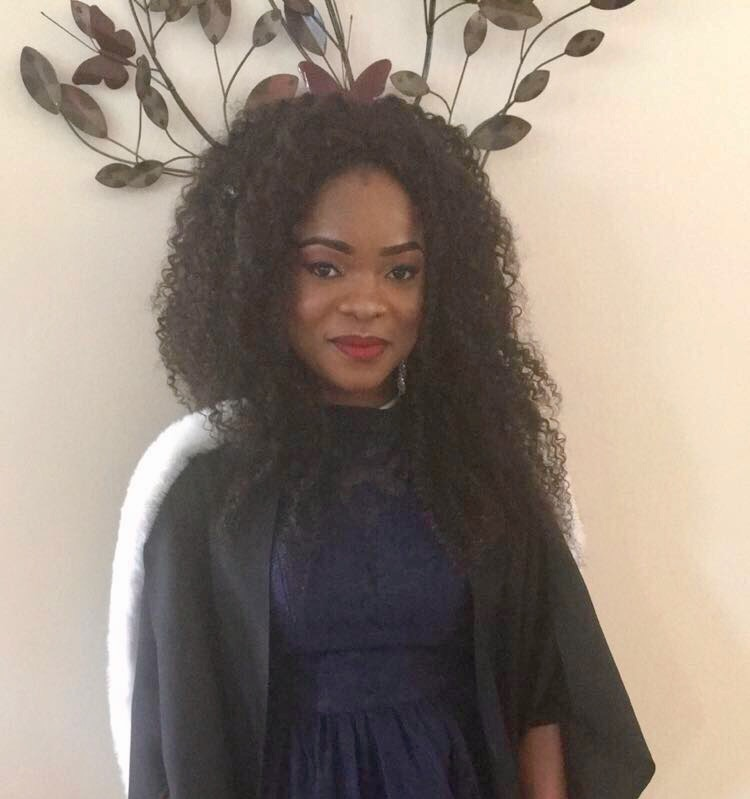
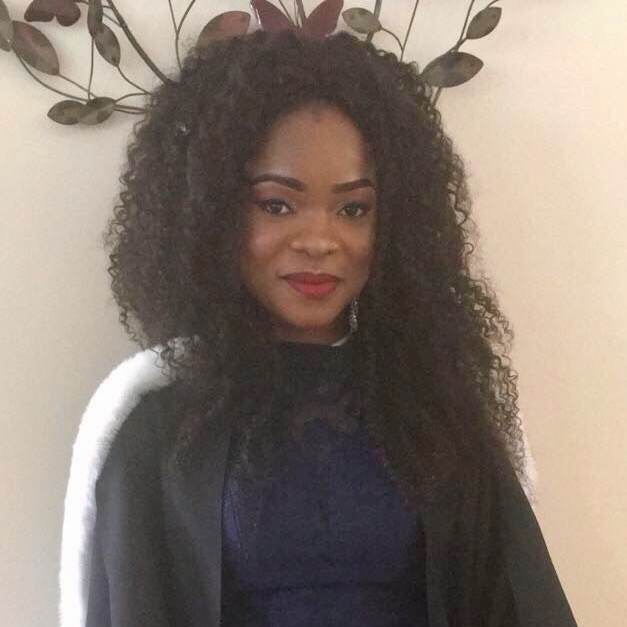
(fix) change pics

diff --git a/docs/team.html b/docs/team.html
@@ -59,7 +59,7 @@
             <div class="col-md-3">
                 <div class="hovereffect">
                     <a href="bios/ashley.html">
-                        <img class="img-responsive" src="images/ashley.jpg" alt="Lights" style="width:100%">
+                        <img class="img-responsive" src="images/ashley2.jpg" alt="Lights" style="width:100%">
                         <div class="caption overlay">
                           <h2>Ashley</h2>
                         </div>
@@ -69,7 +69,7 @@
             <div class="col-md-3">
                 <div class="hovereffect">
                     <a href="bios/kara.html">
-                        <img class="img-responsive" src="images/kara.jpg" alt="Lights" style="width:100%">
+                        <img class="img-responsive" src="images/kara2.jpg" alt="Lights" style="width:100%">
                         <div class="caption overlay">
                           <h2>Kara</h2>
                         </div>
@@ -79,7 +79,7 @@
             <div class="col-md-3">
                 <div class="hovereffect">
                     <a href="bios/nick.html">
-                        <img class="img-responsive" src="images/nick.jpg" alt="Lights" style="width:100%">
+                        <img class="img-responsive" src="images/nick2.jpg" alt="Lights" style="width:100%">
                         <div class="caption overlay">
                           <h2>Nick</h2>
                         </div>
@@ -87,6 +87,7 @@
                 </div>
             </div>
         </div>
+        <br>
         <div class ="row">
             <div class="col-md-3">
                 <div class="hovereffect">
